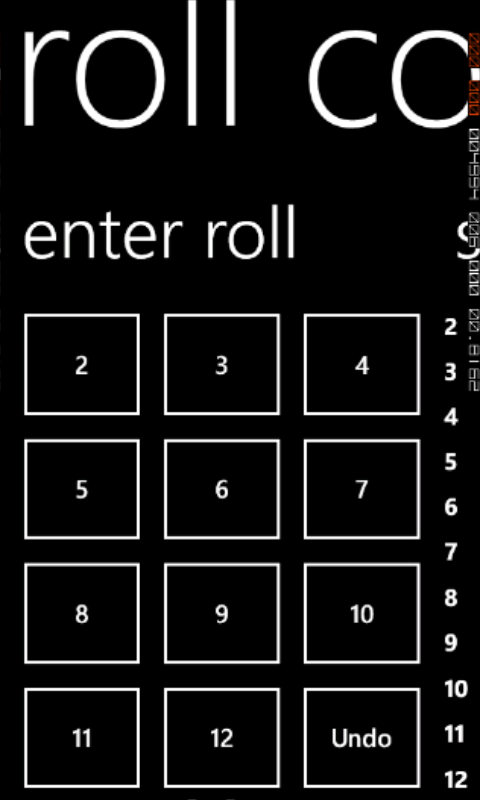
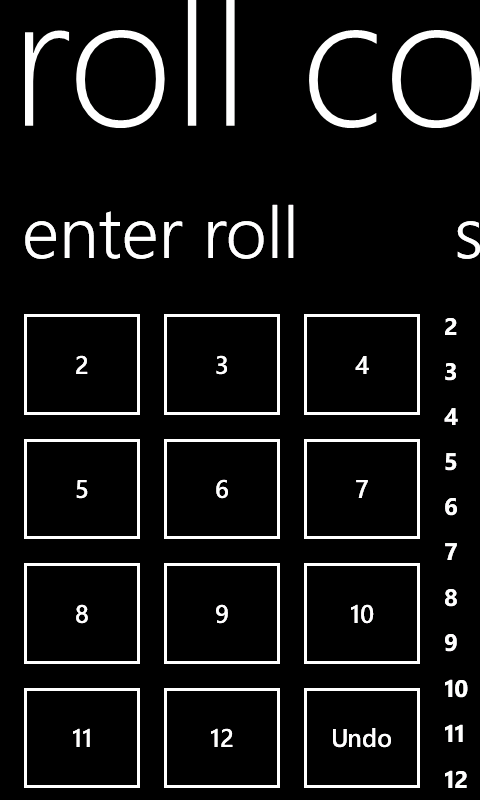
Disabled frame rate counters and retook screens.

diff --git a/Solution/App.xaml.cs b/Solution/App.xaml.cs
@@ -59,7 +59,7 @@ namespace RollCounter
             if (System.Diagnostics.Debugger.IsAttached)
             {
                 // Display the current frame rate counters.
-                Application.Current.Host.Settings.EnableFrameRateCounter = true;
+                Application.Current.Host.Settings.EnableFrameRateCounter = false;
 
                 // Show the areas of the app that are being redrawn in each frame.
                 //Application.Current.Host.Settings.EnableRedrawRegions = true;
